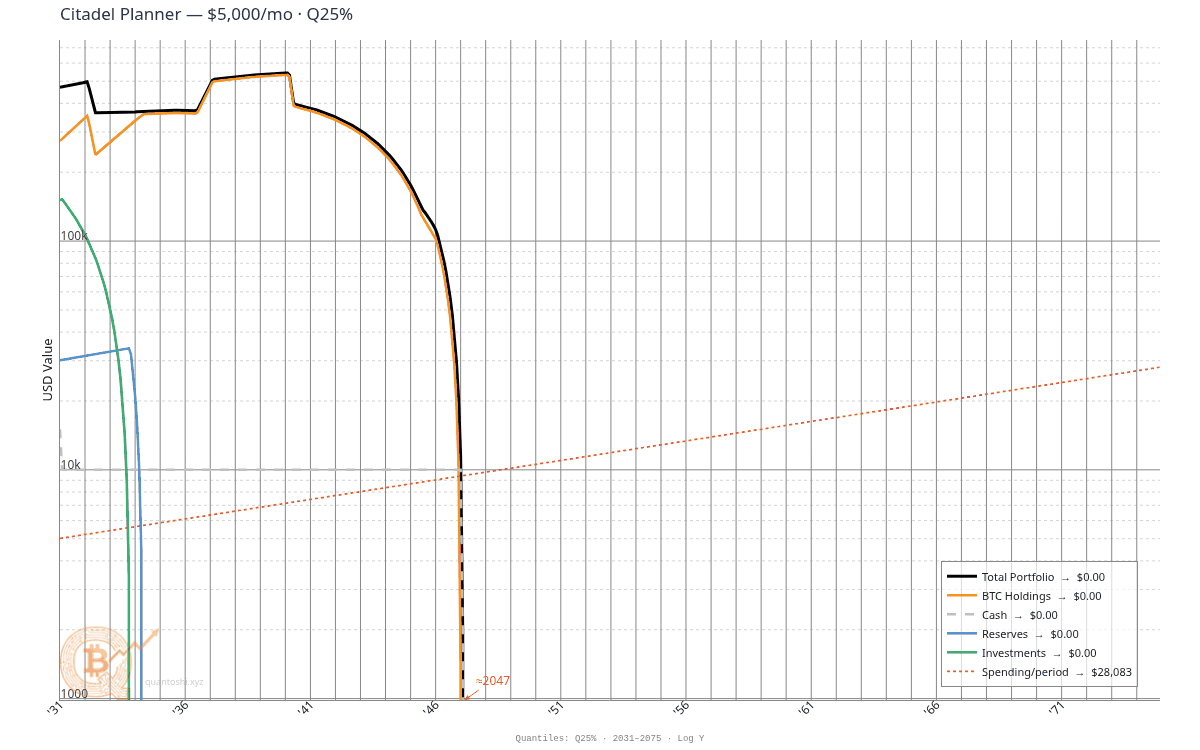
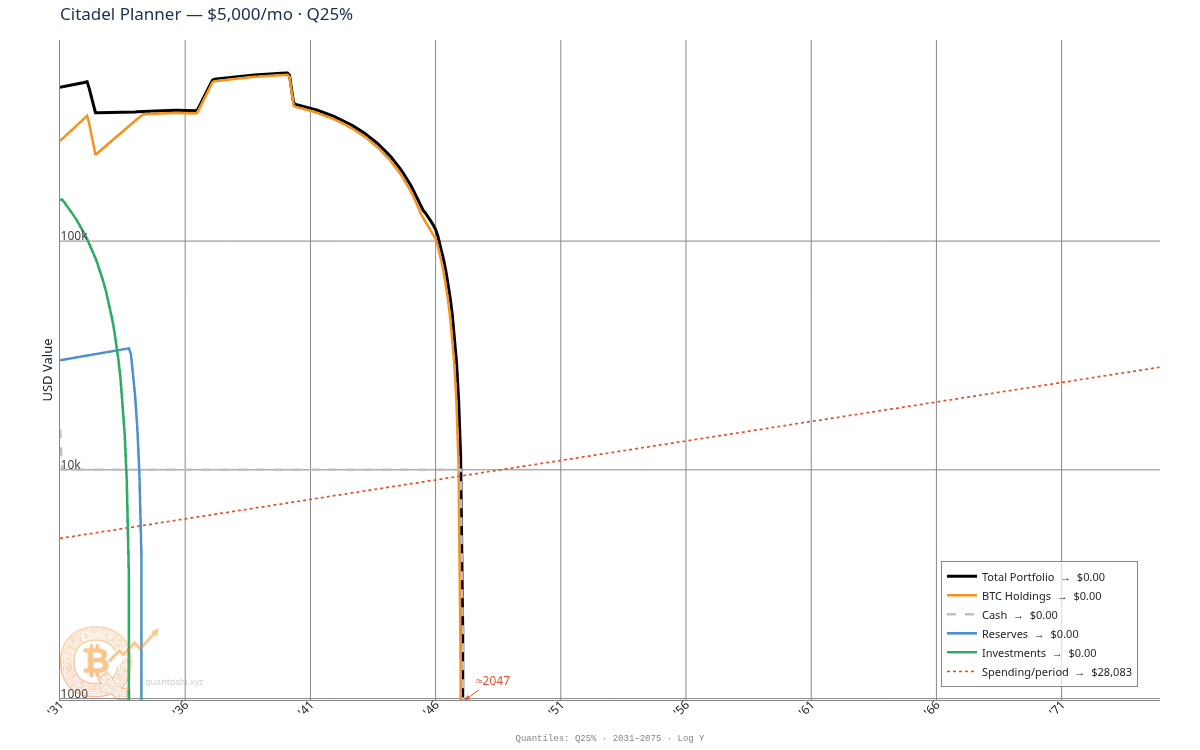
fix: default minor_grid off on retire/supercharge/citadel tabs
Defaults were inconsistent — bubble/heatmap/dca had minor_grid=False
but retire/supercharge/citadel had minor_grid=True, and their
chart_toggle_defaults included 'minor_grid'. Removed from all three.

Regenerated chart previews with the corrected defaults.

diff --git a/btc_web/tab_defaults.py b/btc_web/tab_defaults.py
@@ -80,7 +80,7 @@ RETIRE = MappingProxyType({
     "disp_mode": "btc",
     "annotate": True, "log_y": True,
     "shade": True,
-    "show_legend": False, "minor_grid": True,
+    "show_legend": False, "minor_grid": False,
     "legend_pos": "bottom-right",
     "active_models": (),
     "palette": "default",
@@ -100,7 +100,7 @@ SUPERCHARGE = MappingProxyType({
     "disp_mode": "usd",
     "annotate": True, "log_y": True,
     "shade": True,
-    "show_legend": False, "minor_grid": True,
+    "show_legend": False, "minor_grid": False,
     "legend_pos": "top-left",
     "target_yr": 2060,
     "active_models": (),
@@ -139,7 +139,7 @@ CITADEL = MappingProxyType({
     "price_model": "bub", "asset_return_model": "lognormal",
     "selected_qs": (0.25,),
     "disp_mode": "usd_per_asset",
-    "annotate": True, "log_y": True, "show_legend": True, "minor_grid": True,
+    "annotate": True, "log_y": True, "show_legend": True, "minor_grid": False,
     "legend_pos": "bottom-right",
     "palette": "default",
     # Tax system (off by default)

diff --git a/btc_web/layout/supercharge.py b/btc_web/layout/supercharge.py
@@ -100,7 +100,7 @@ def _supercharge_controls():
                              value=display_q_default, clearable=False),
             ], id="sc-display-q-collapse", is_open=True),
             _btc_usd_dropdown("sc", btc_label="BTC Remaining", default="usd"),
-            _chart_toggles("sc", ["annotate", "log_y", "minor_grid", "shade"]),
+            _chart_toggles("sc", ["annotate", "log_y", "shade"]),
             *_legend_pos_dropdown("sc", SUPERCHARGE["legend_pos"]),
         ),
         _lppl_config_panel("sc"),

diff --git a/btc_web/layout/citadel.py b/btc_web/layout/citadel.py
@@ -279,7 +279,7 @@ def _sim_panel():
                      default_entry_q=10,
                      shared_controls={"amount", "infl", "freq", "stack"}),
         _section_card("Chart Settings",
-            _chart_toggles("cp", ["annotate", "log_y", "show_legend", "minor_grid"]),
+            _chart_toggles("cp", ["annotate", "log_y", "show_legend"]),
             *_legend_pos_dropdown("cp", CITADEL["legend_pos"]),
             html.Div([
                 dbc.Button("Show All", id="cp-legend-all", size="sm",

diff --git a/btc_web/layout/sim_tabs.py b/btc_web/layout/sim_tabs.py
@@ -148,7 +148,7 @@ def _retire_controls():
                        shared_controls={"amount", "infl", "freq", "stack"},
                        mc_enabled_default=True),
         yr_range=(2024, 2080, 2031, 2075),
-        chart_toggle_defaults=["annotate", "log_y", "minor_grid", "shade"],
+        chart_toggle_defaults=["annotate", "log_y", "shade"],
         btc_usd_kwargs={"btc_label": "BTC Remaining"},
         legend_pos_default=RETIRE["legend_pos"],
         include_mc=True,
